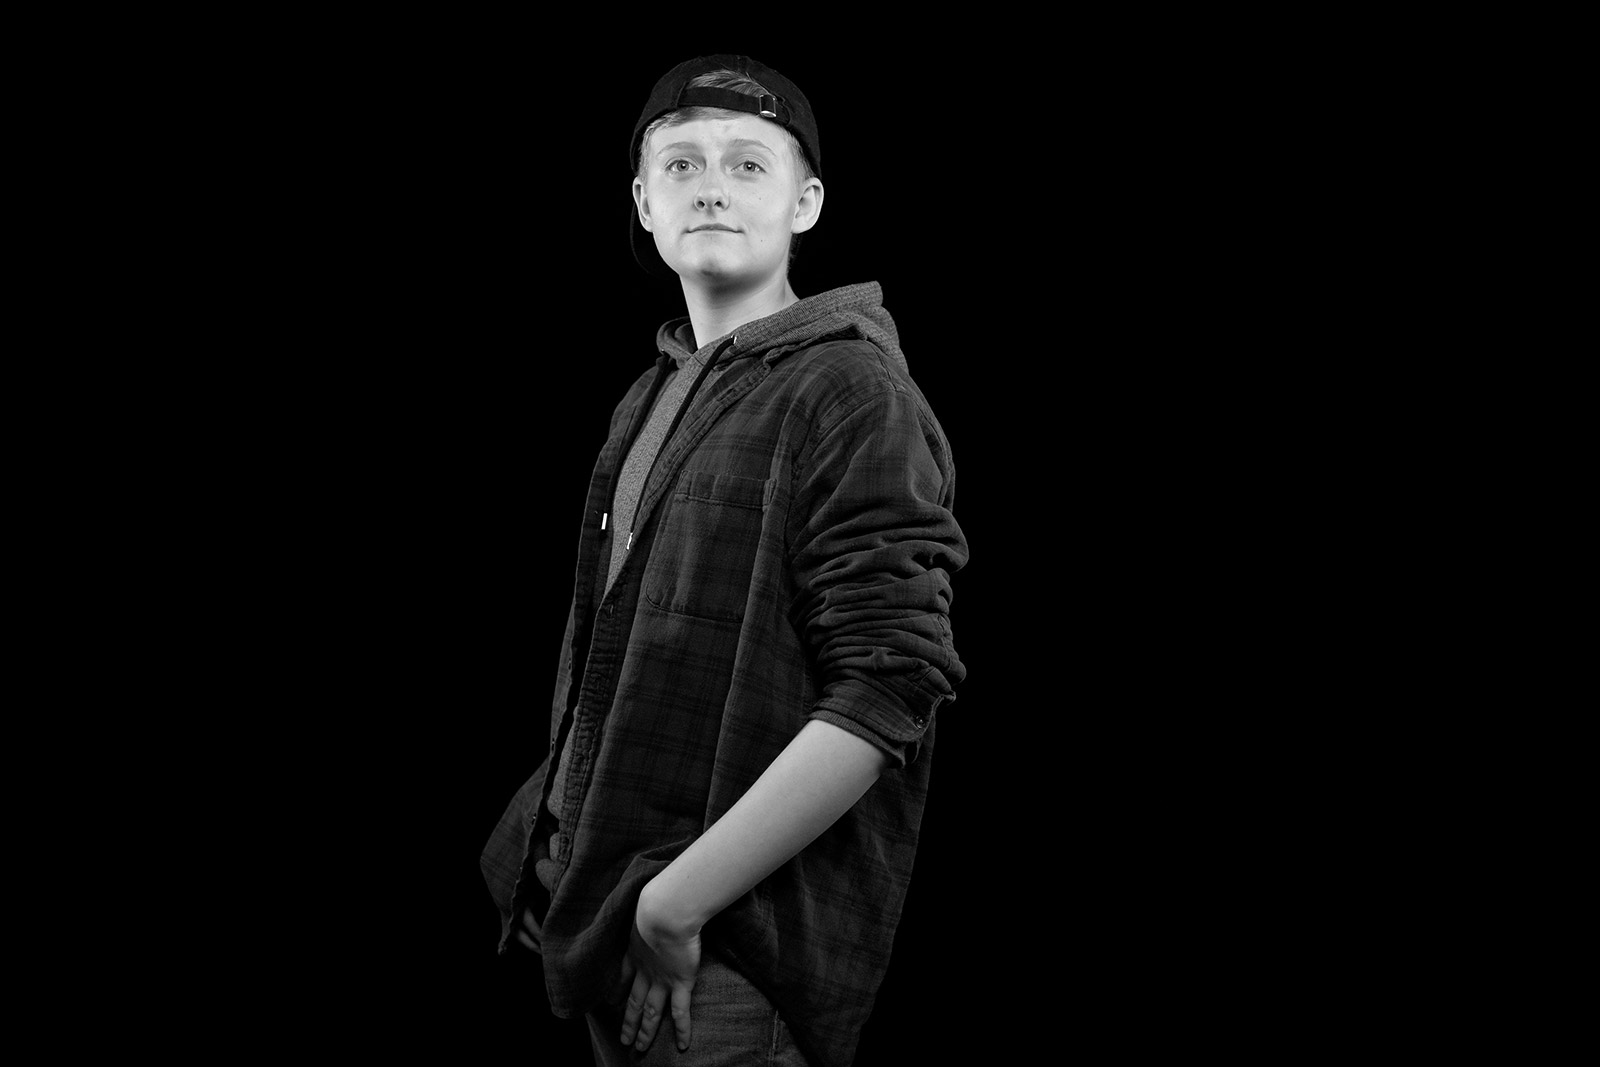
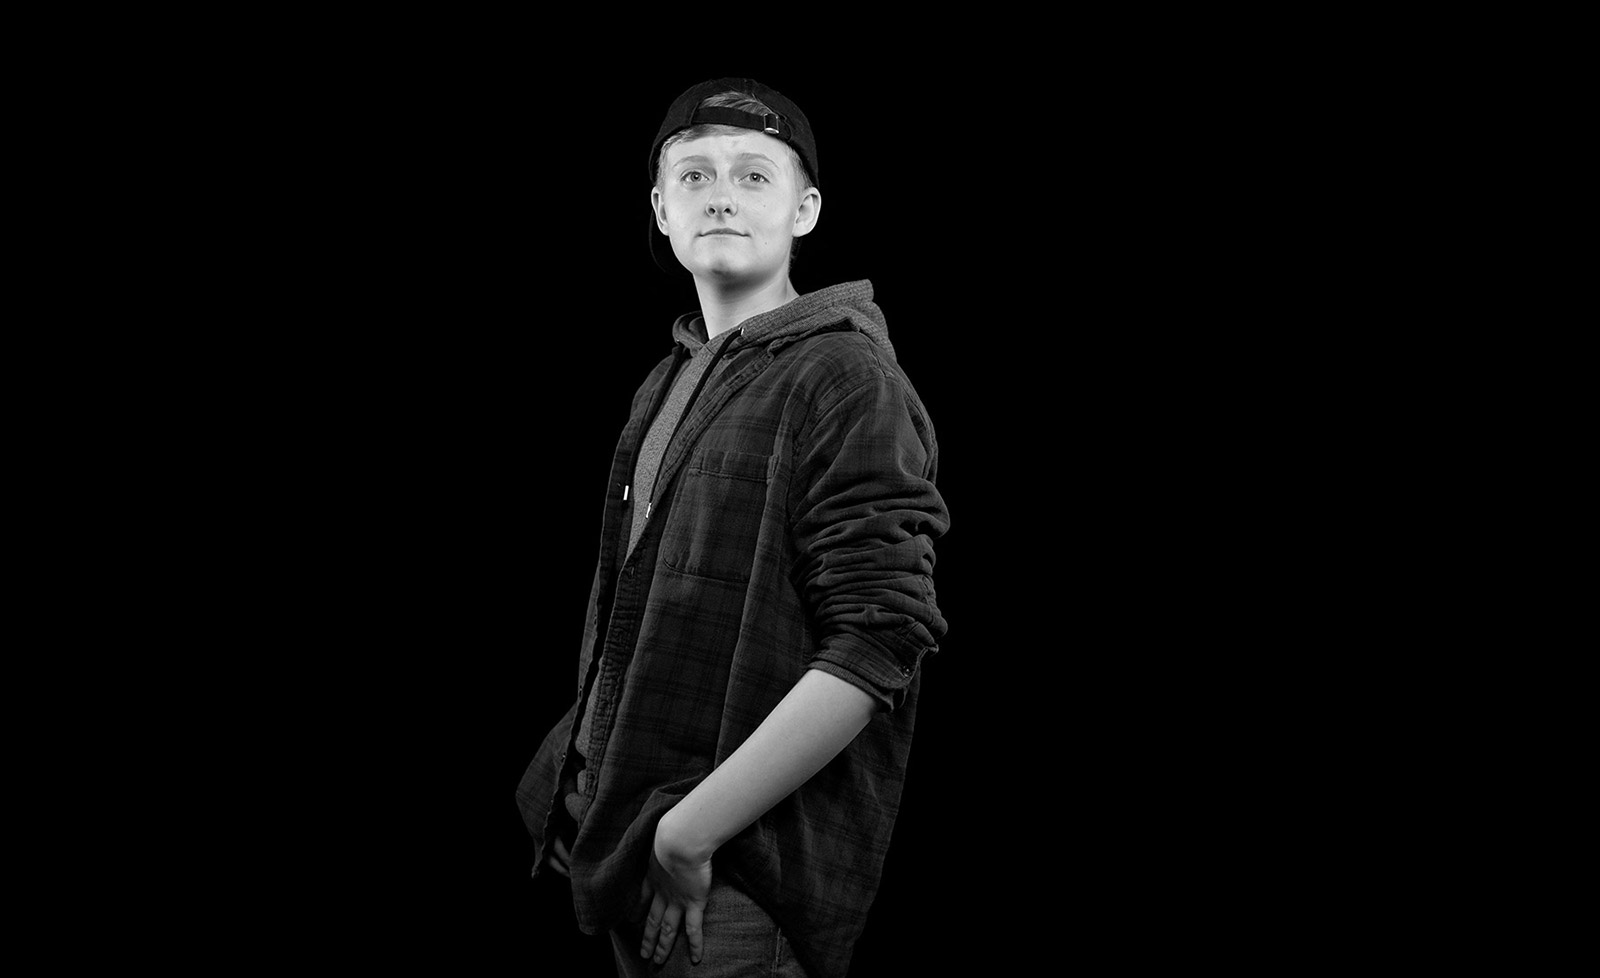
fix encrouchment on blurb; adjust negative space on opener image

Changed region(s): [[0.2812, 0.0613, 0.625, 1.0], [0.5, 0.7669, 0.5312, 0.7975]]

diff --git a/words.html b/words.html
@@ -203,6 +203,15 @@
 <div class="row">
 	<div class="large-8 large-centered medium-10 medium-centered small-12 columns">
 		<p class="blurb">They thought this only happened in ultra-liberal families, that transgender children were influenced by wayward parents. But a teenager&rsquo;s announcement that she is transgender sent her family on a journey of faith that resulted in a simple answer: unconditional love.</p>
+	</div>
+</div>
+
+<!-- LEDE -->
+<div class="row">
+	<div class="large-7 large-centered medium-9 medium-centered small-12 columns">
+		<p class="lead">Vicki Kluzek was about to shut off the lights for the night when her youngest child slid into the family-room chair beside her and spoke three words that would upend their lives.</p>
+		<p>&ldquo;I&rsquo;m a girl,&rdquo; said the 15-year-old.</p>
+		<p>Vicki felt her stomach constrict, her insides twist. From her seat on the tan couch, she was looking into the eyes of her son, wondering what she had missed. But she saved the &ldquo;freaking out&rdquo; for behind the closed bedroom door with her husband, Erik.</p>
 		<div class="large-3 medium-2 small-12 inset-video-right">
 			<div id="email" class="panel radius">
 
@@ -233,8 +242,6 @@
 			    <div class="clear"></div>
 			</div>
 		</div>
-		<p>&ldquo;I&rsquo;m a girl,&rdquo; said the 15-year-old.</p>
-		<p>Vicki felt her stomach constrict, her insides twist. From her seat on the tan couch, she was looking into the eyes of her son, wondering what she had missed. But she saved the &ldquo;freaking out&rdquo; for behind the closed bedroom door with her husband, Erik.</p>
 		<p>A night later, when their teenager repeated the words to Vicki and Erik as they watched television &mdash; not far from the Bibles and theology texts that line the family bookshelf &mdash; Erik felt as if a train had knocked the wind out of his body.</p>
 		<p>They were parents who went to <a href="http://www.focusonthefamily.com/">Focus on the Family</a> seminars that taught fathers to bond with their sons so they wouldn&rsquo;t &ldquo;turn out gay.&rdquo; They opposed gay marriage and thought transgender children were under the influence of ultra-liberal parents who brainwashed them. Vicki once called her oldest daughter&rsquo;s school and blocked a French teacher&rsquo;s plans to show &ldquo;<a href="http://www.sonypictures.com/movies/mavieenrose/">Ma Vie en Rose</a>,&rdquo; a film about a transgender child.</p>
 		<p>Erik is a conservative Lutheran, and Vicki is a Mormon who not only shuns coffee and alcohol, both forbidden by the <a href="https://www.lds.org/?lang=eng">Latter-day Saints</a>, but believed gay and trans people were choosing to commit sin. When Erik&rsquo;s new job brought them from Utah to Boulder County years ago in the middle of an LGBT film festival, she was &ldquo;scandalized&rdquo; and asked, &ldquo;Oh my heavens, where have I moved?&rdquo;</p>
@@ -362,16 +369,6 @@
 		<p>&ldquo;I have all these memories of times with my little brother, and the relationship we had,&rdquo; he said. &ldquo;Now, I have a sister. Sometimes I miss that, but she is so much better of a person, in every conceivable way.&rdquo;</p>
 	</div>
 </div>
-
-<div class="row">
-	<div class="large-12 large-centered medium-12 medium-centered small-12 columns">
-		<div class="centerphoto">
-			<img src="./img/transgender-alison-23968.jpg" alt="Erik, Alison and Kevin walk their dogs" />
-			<p class="caption"><span class="photog">Joe Amon, The Denver Post</span>Kevin, Erik and Alison talk during a walk with Ruby. After Alison came out to her parents, she withdrew into herself &mdash; taking long walks, curling up in a ball, crying into her pillow. &ldquo;There was quite a lot of pain. The pain was unbearable and I just wanted it to end,&rdquo; Alison said.</p>
-		</div>
-	</div>
-</div>
-
 
 </section>
 
